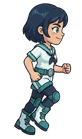
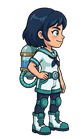
feat: Tide idles on her own standing picture (art_source/characters/tide/side_idle/idle_v1.png: the side view of a three-view AI picture cut onto transparency, its white and green backdrops both keyed, the white flooded from outside so her white clothes stay; poses.stand scale 0.91 / alignX on the f

diff --git a/assets/README.md b/assets/README.md
@@ -196,9 +196,10 @@ by a global white key that also cleared her eye whites and the white of her boot
 `import.json` `restoreWhites` makes those enclosed holes opaque again, the gaps of backdrop between
 an arm or a leg and the body stay clear) and the kneeling ready pose `side_ready/ready_v1.png` (green
 backdrop, the AI sparkle that lay over the front boot's toe un-blended out of it before it was
-saved) by `tools/import_frames.gd tide`; her standing picture `side_idle/idle_v1.png` is not drawn
-yet, so she idles on the run's `frame_2` (`anims.idle.fallback` `[1]`: the passing pose, both feet
-down). The lobby picture and portrait are cut from one front-view drawing `lobby/full_v1.png` by
+saved) by `tools/import_frames.gd tide`; her standing picture `side_idle/idle_v1.png` (`poses.stand`) is
+the side view of a three-view AI picture, cut onto transparency before it was saved (its backdrop
+white on the left, green on the right: both keyed, the white flooded from outside so her white
+clothes stay). The lobby picture and portrait are cut from one front-view drawing `lobby/full_v1.png` by
 `tools/cut_sheet.gd tide` (`lineup_parts.json` figure `tide`: its own `sheet`, `portrait`). Her water
 gun is hug art per tier (`art_source/weapons/hug/water_gun_<tier>.png`, `tools/import_hug_guns.gd`,
 also the `weapon_water_<tier>` equipment icons), her water orbs per tier
@@ -206,7 +207,8 @@ also the `weapon_water_<tier>` equipment icons), her water orbs per tier
 `tools/import_projectiles.gd`); the orb's trail and water burst (`fx/water_gun/`) are still painted
 by code. Her pose scenes (`scenes/character/poses/tide_ready.tscn`, `tide_carry.tscn`) hold the hug
 gun on her fists and slung across her back. Her run frames have no water tank on the back (the
-kneeling and lobby pictures do).
+standing, kneeling and lobby pictures do). Her near arm over the hugged gun is the sleeve, the
+forearm and the near fist only (as everyone's: the far fist stays under the gun).
 
 ## Re-baking the placeholder art
 
@@ -236,7 +238,7 @@ A character with `side/side.json` is drawn in the match (and the fallback outsid
 frames instead of the baked ones below (`ui/art.gd` `character_look()`: side view → baked frames →
 Rookie's → empty). Today: **every character** (the same files: Flora's `flora/side/` 89x128,
 walk at 13 fps; Tide's `tide/side/` 82x139, walk at 12 fps, 64 world px tall (her head the size of
-Flora's, her legs longer), idling on a run frame until her standing picture is drawn; Tanko's `tanko/side/` 93x126, walk at 15 fps; Spark's `spark/side/` 94x134, walk at
+Flora's, her legs longer), idling on her own standing picture; Tanko's `tanko/side/` 93x126, walk at 15 fps; Spark's `spark/side/` 94x134, walk at
 15 fps; every idle is its own standing picture; heads the size of Rookie's, Tanko a little shorter
 and broader, Spark a little taller (the spiky hair); no `hand.png`, they hold their gun only hugged). Facing left is the same frames mirrored round the feet
 (`Flip` scale x -1): no separate files, no jump on a turn, the gun anchors and the muzzle mirror

diff --git a/art_source/characters/tide/PROMPTS.md b/art_source/characters/tide/PROMPTS.md
@@ -7,7 +7,7 @@ game nào khác: đừng thêm tên game / tên hãng / "in the style of <game>"
 **Đã nhập vào game** (`assets/README.md` mục "Tide's art"; ảnh tạm đổi màu từ Flora đã bỏ):
 - [x] 2. ảnh sảnh `lobby/full_v1.png` (tay chống hông, không vẫy tay; chân dung mục 5 cắt từ ảnh này)
 - [x] 3a. ảnh chạy `side_run/frame_1..8.png` (chưa có bình nước sau lưng)
-- [ ] 3b. ảnh đứng yên `side_idle/idle_v1.png` (tuỳ chọn: chưa có thì dùng `frame_2`)
+- [x] 3b. ảnh đứng yên `side_idle/idle_v1.png` (hình giữa của ảnh 3 góc nhìn, đã cắt nền trắng + xanh)
 - [x] 3c. ảnh quỳ `side_ready/ready_v1.png` (dấu ✦ đè lên giày đã gỡ)
 - [x] 4a. súng ôm `art_source/weapons/hug/water_gun_<iron|steel|mithril|dragon>.png`
 - [ ] 4b. icon súng riêng (tuỳ chọn: icon `weapon_water_<cấp>` đang cắt từ súng ôm)
